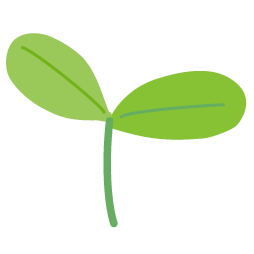
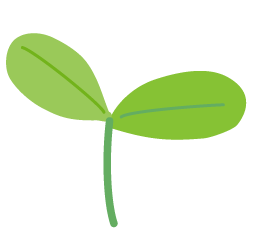
ヘッダー・ログイン画面修正

Changed region(s): [[0.0, 0.1223, 0.9921, 0.6725], [0.3858, 0.7031, 0.4685, 1.0]]

diff --git a/react/a3/src/Components/HeaderComponent.jsx b/react/a3/src/Components/HeaderComponent.jsx
@@ -3,7 +3,7 @@ import './HeaderComponent.css';
 //import axios from 'axios';
 import logout from "../assets/logout.png";
 import { NavLink, useNavigate } from 'react-router-dom';
-
+import leaf from "../assets/leaf.png";
 
 const HeaderComponent = () => {
 
@@ -14,16 +14,19 @@ const HeaderComponent = () => {
 
         const result = window.confirm('ログアウトしますか？');
 
-            if (result) {
-                navigate("/");
-            }
+        if (result) {
+            navigate("/");
+        }
 
 
     };
 
     return (
         <header className="header">
-            <p>🌱きょうのいっぽ</p>
+            <div className="leaf">
+                <img src={leaf} alt="葉っぱ" />
+            </div>
+            <p>きょうのいっぽ</p>
             <NavLink to="/" className="logout-icon" onClick={handleLogout}>
                 <img src={logout} alt="ログアウト" />
             </NavLink>

diff --git a/react/a3/src/App.css b/react/a3/src/App.css
@@ -55,21 +55,21 @@
       scale(0.8);
   }
 }
-/*
-#center {
+
+/* #center {
   display: flex;
   flex-direction: column;
   gap: 25px;
   place-content: center;
   place-items: center;
-  flex-grow: 1;
+  flex-grow: 1; 
 
   @media (max-width: 1024px) {
-    padding: 32px 20px 24px;
+    padding: 0px 0px 24px;
     gap: 18px;
   }
-}
-*/
+} */
+
 #next-steps {
   display: flex;
   border-top: 1px solid var(--border);

diff --git a/react/a3/src/Components/HeaderComponent.css b/react/a3/src/Components/HeaderComponent.css
@@ -62,3 +62,10 @@
 .logout-icon img:active {
   transform: scale(.95);
 }
+
+
+.leaf img{
+    width: 30px;
+    height: 30px;
+    margin: 0px;
+}

diff --git a/react/a3/src/Components/LayoutComponent.css b/react/a3/src/Components/LayoutComponent.css
@@ -2,7 +2,7 @@
   max-width: 430px;
   margin: 0 auto;
 
-  padding-top: 65px;
+  padding-top: 70px;
   padding-bottom: 100px; /* Footerの高さ */
 
   min-height: 100dvh;

diff --git a/react/a3/src/Login/Login.css b/react/a3/src/Login/Login.css
@@ -16,6 +16,7 @@
 
     text-align:center;
     z-index:10;
+
 }
 
 h1{